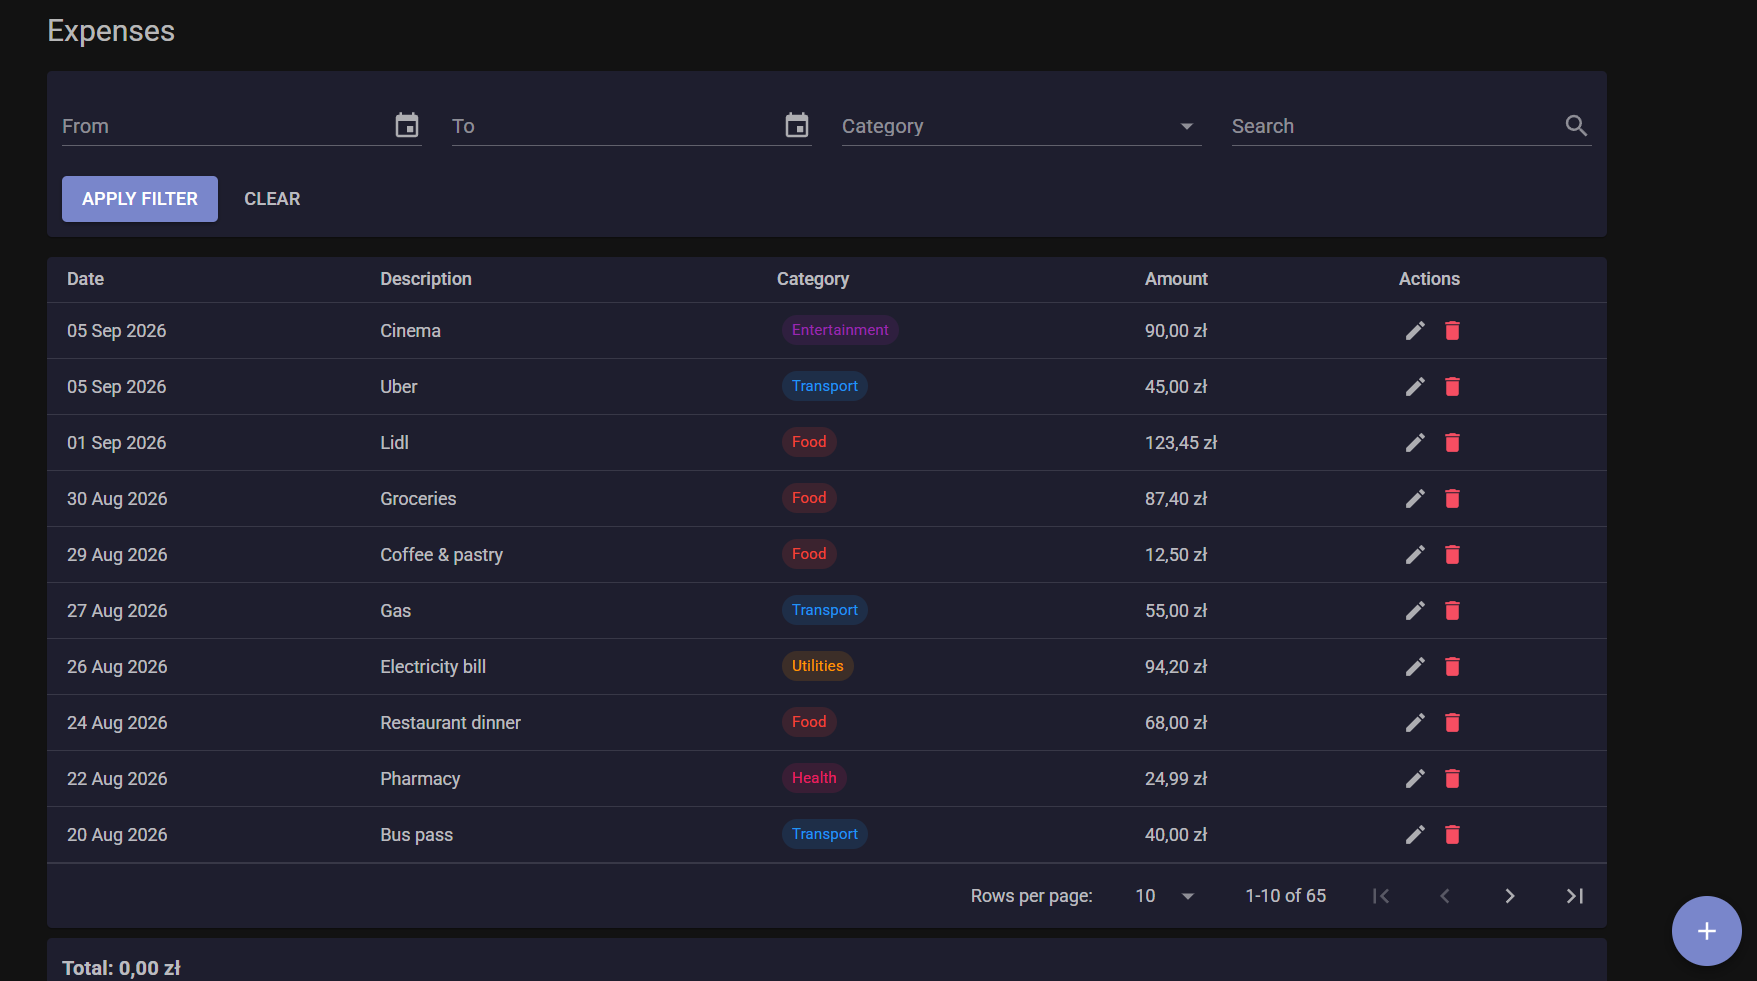
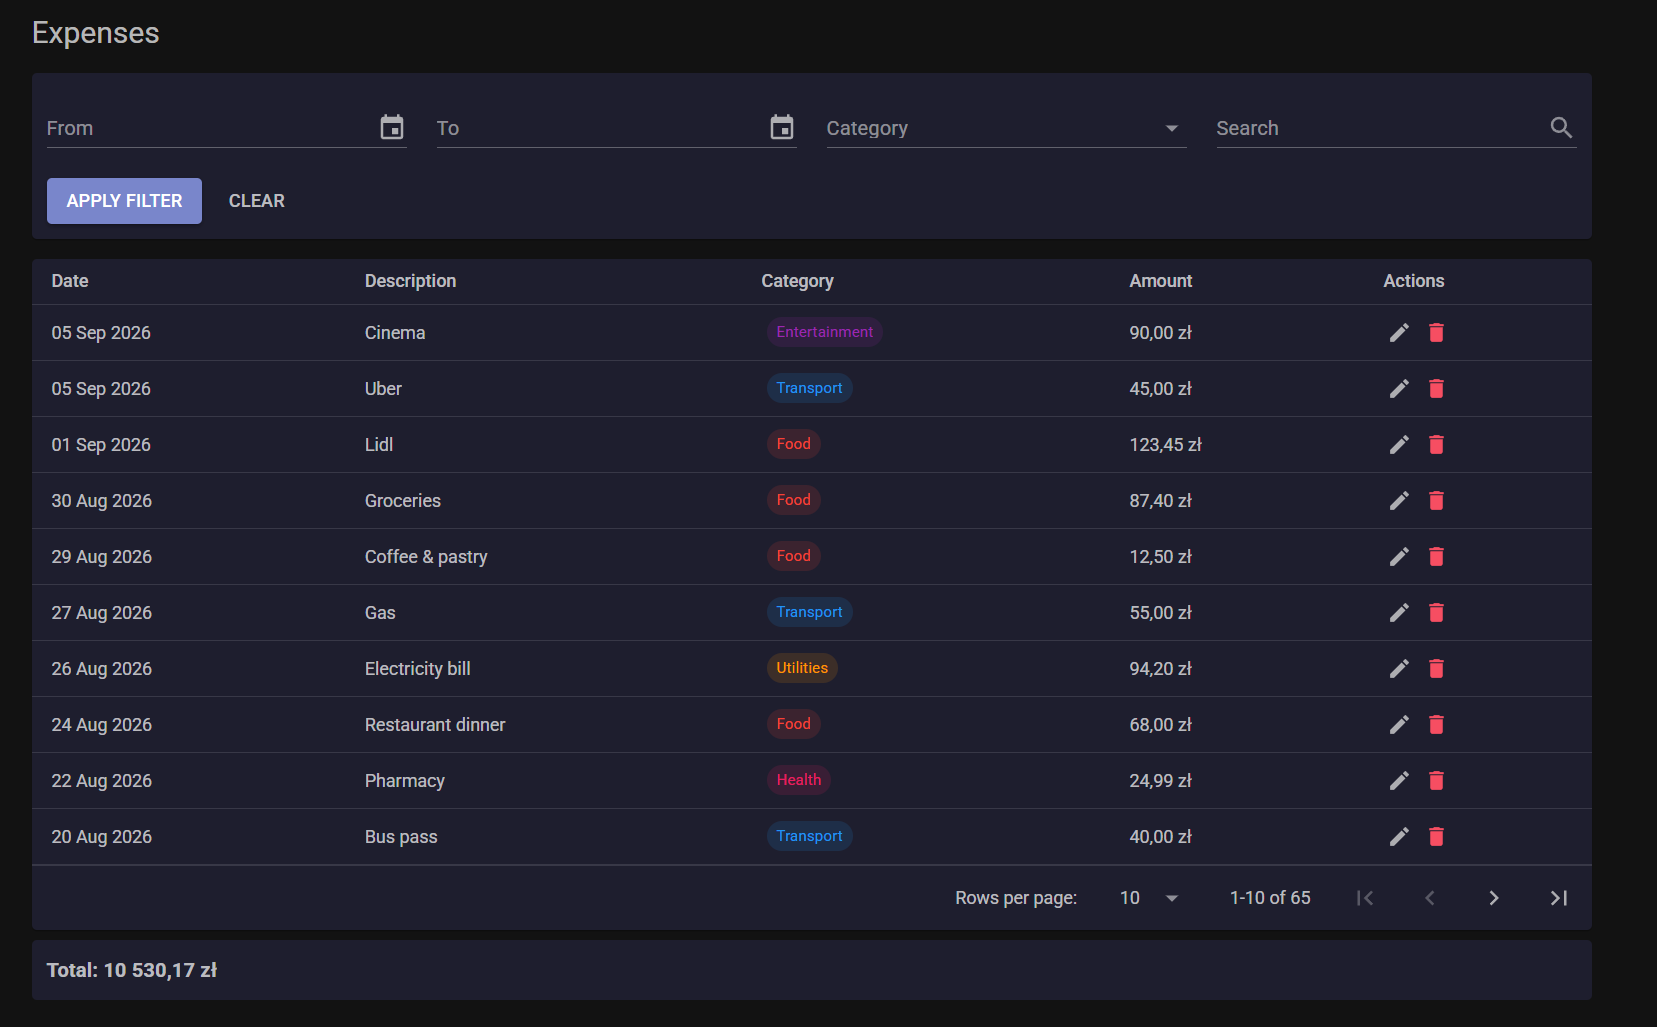
Fix the expenses total showing 0,00 until the page is touched
_filteredTotal is assigned inside the grid's ServerData callback, but the total
is rendered outside the grid. The grid re-renders itself when the load
completes; the parent does not, so the text kept the field's initial 0,00 no
matter how many rows arrived.

It only ever looked wrong on first load. Applying a filter is a UI event, and
Blazor re-renders the component after one of those completes, so the number
corrected itself the moment anyone interacted with the page — which is why it
survived this long.

Every other page that loads data calls StateHasChanged; this was the only one
that did not, and the only one with a wrong total on screen.

Refreshes the screenshot, which had captured the bug, and says in its caption
that the total is summed in the database over the whole filtered set rather
than the visible page.

diff --git a/README.md b/README.md
@@ -47,7 +47,9 @@ yearly plan and a weekly one are comparable figures rather than raw amounts.
 
 ![Expenses](docs/screenshots/expenses.png)
 
-Expenses, filterable by date range, category and free text, paged server-side.
+Expenses, filterable by date range, category and free text. Paging and the filtered
+total are both computed in the database, so the total covers every matching row rather
+than the ten on screen.
 
 ![Income](docs/screenshots/income.png)
 
